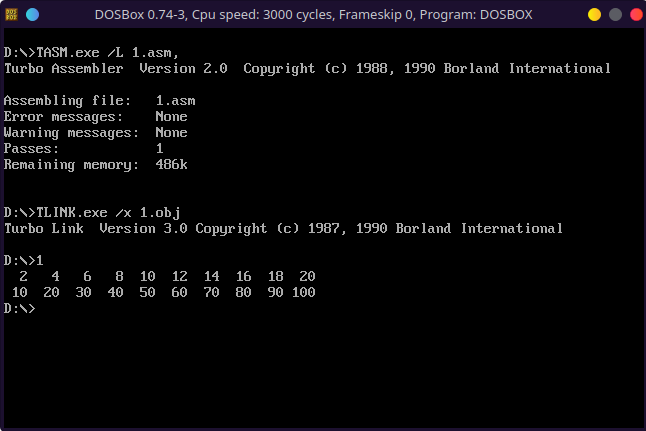
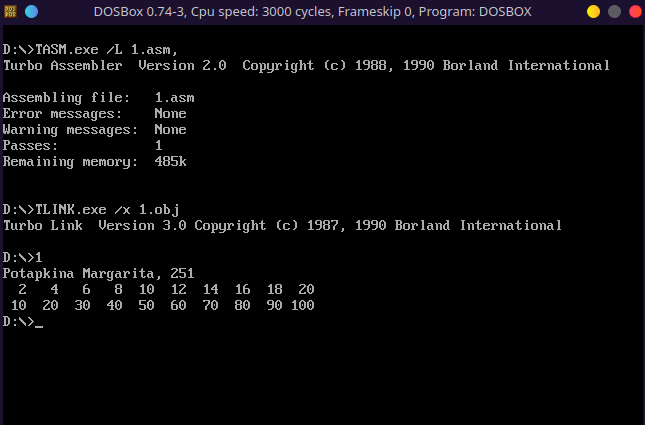
fix (lab4): print name

diff --git a/lab4/lab4.tex b/lab4/lab4.tex
@@ -125,7 +125,7 @@
 \begin{enumerate}
 \item Инициализуем сегмент стека.
 \item Инициализуем сегмент данных: объявим массив, строку для записи чисел и строку с символами перевода строки.
-\item Опишем процедуру вывода перевода строки.
+\item Опишем вспомогательные процедуры вывода строки и перевода строки.
 \item Процедура вывода числа:
 \begin{enumerate}
 	\item Сохраним в стек все регистры общего назначения.
@@ -140,12 +140,13 @@
 	\item Извлечём из стека регистры общего назначения.
 \end{enumerate}
 \item Выполним обязательную инициализацию регистра данных.
+\item Выведем имя и фамилию, а также перевод строки.
 \item Положим в CX 10 (количество элементов в первой половине массива), в BL "--- 2 (первый элемент), в SI "--- 0.
 \item В цикле положим очередное значение BL в массив по индексу SI, затем увеличим BL на 2, чтобы пройтись только по чётным числам, а SI "--- на 1.
 \item Положим в CX 10, в SI 0 (индекс текущего элемента из первой половины, его будем домножать на 5, чтобы получить элемент из второй половины), в DI 10 (индекс текущего элемента из второй половины), в BL 5 (на него будем домножать элемент из первой половины, чтобы получить элемент из второй половины).
 \item В цикле сохраним в AL текущее значение из первой половины массива, умножим его на коэффициент и запишем во вторую половину массива, затем увеличим оба индекса (SI и DI) на 1.
 \item Положим в CX 20 (количество элементов во всём массиве), в SI "--- 0.
-\item В цикле положим очередной элемент массива в AL, вызовем процедуру вывода числа, увеличим SI на 1. Если он стал равен 10, выполним шаг 12, иначе вернёмся к началу цикла или завершим его (если CX стал равен 0).
+\item В цикле положим очередной элемент массива в AL, вызовем процедуру вывода числа, увеличим SI на 1. Если он стал равен 10, выполним шаг 13, иначе вернёмся к началу цикла или завершим его (если CX стал равен 0).
 \item Выведем перевод строки для организации вывода в виде двух строк.
 \item Завершим программу.
 \end{enumerate}
